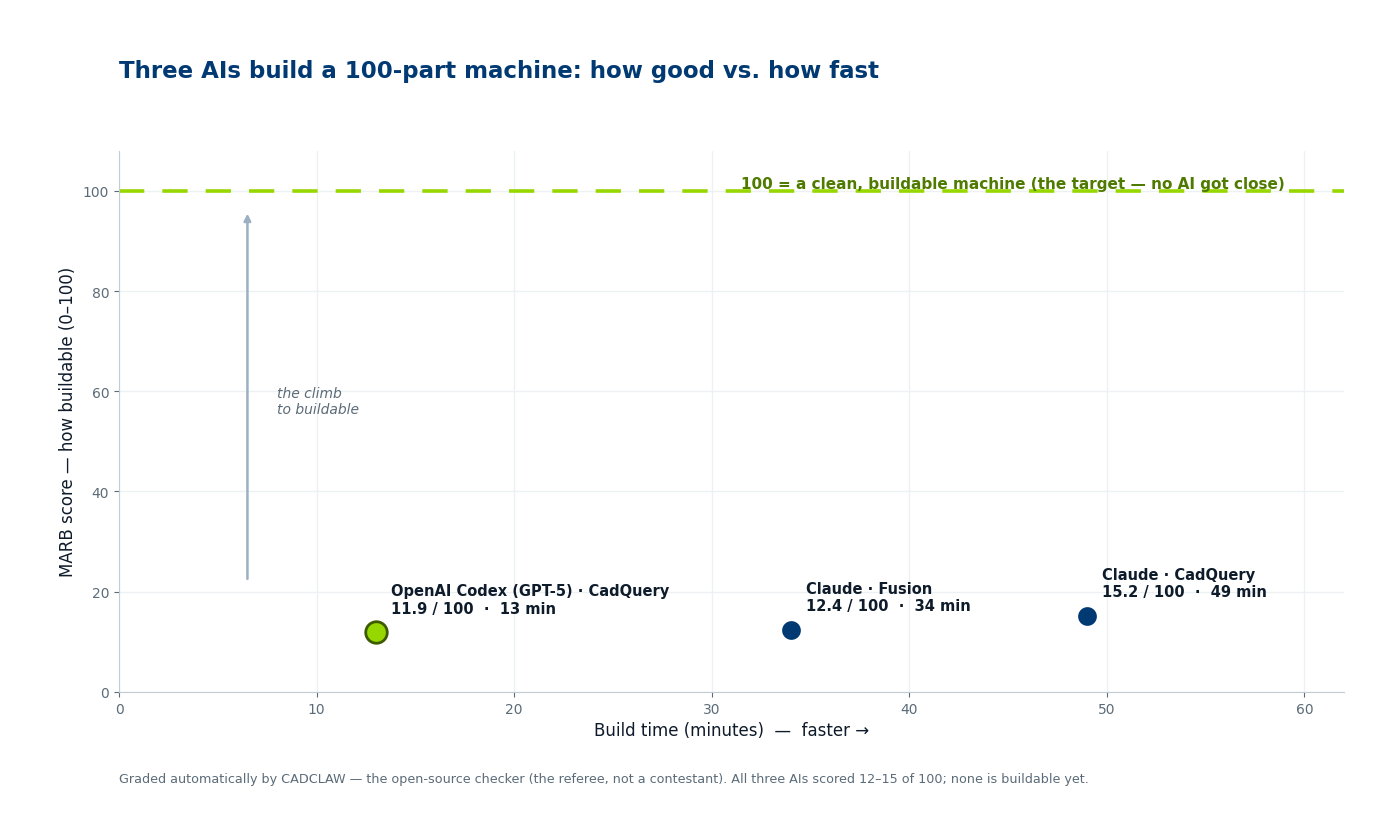
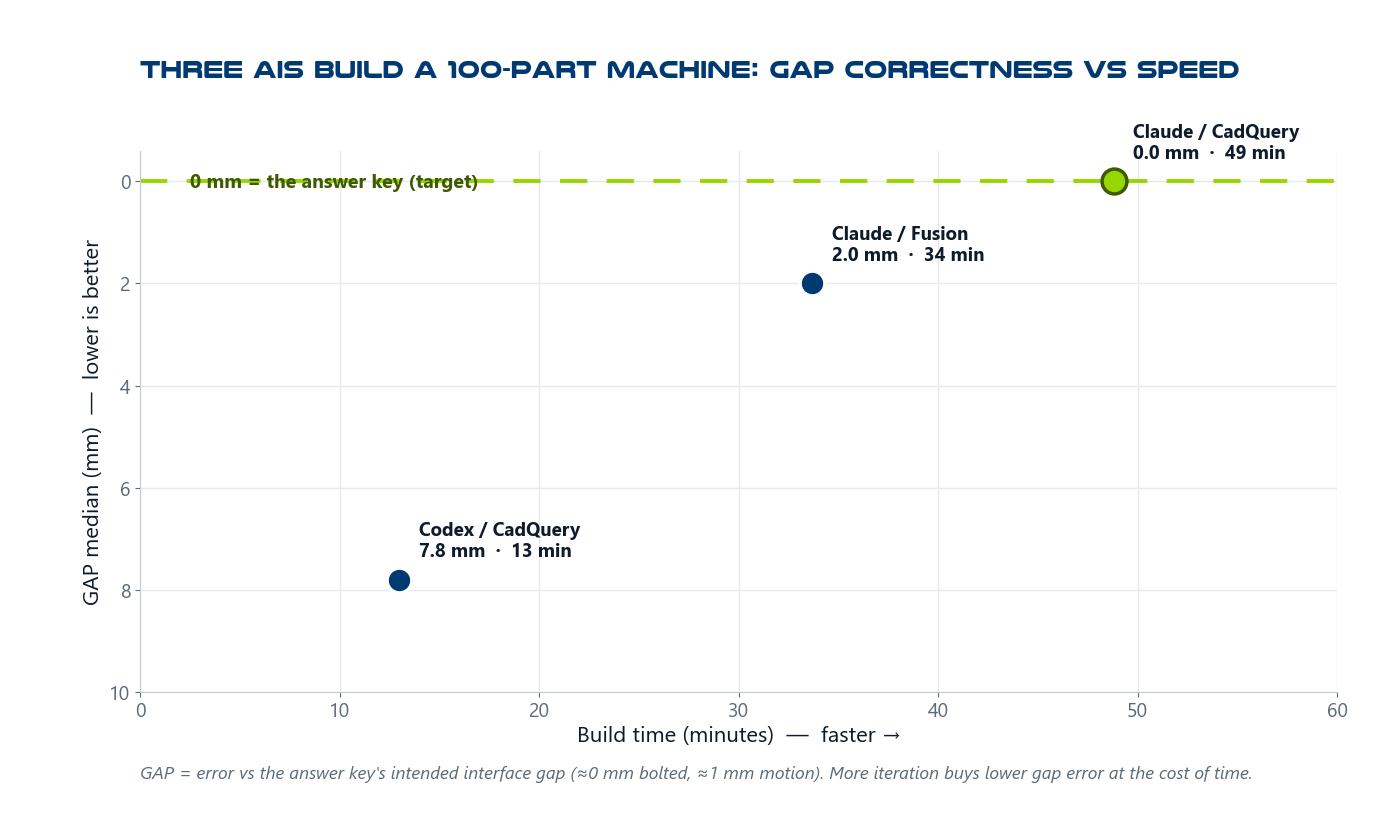
MARB v0.9: positional accuracy leaderboard + new scoreboard graphic
- /benchmark/ leaderboard now grades GAP median (functional interface gap
  vs answer key), ORIENT aligned (% rotation correct), POS rel median
  (frame-invariant position error) -- replacing the buildability-only
  score. CadQuery leads GAP (0.0mm); Codex leads ORIENT (69%) + POS.
- Scoreboard regenerated via brand_figs.py (Nulshock + Segoe UI, big
  legible type, minimal text); written to both marb_scoreboard.png
  (canonical) and arb_scoreboard.png (legacy compat for existing
  og:image refs). Scatter regenerated as GAP-vs-time.
- Caption + tools metadata updated for v0.9; links to MARB_SCORING.md.

diff --git a/docs/benchmark/index.html b/docs/benchmark/index.html
@@ -146,15 +146,15 @@
       <p class="caption">How good vs. how fast. All three sit near the floor (a clean build = 100); <strong>OpenAI Codex did it in 13 minutes</strong> — far faster, slightly lower score.</p>
     </div>
     <table class="restable leaderboard">
-      <thead><tr><th>#</th><th>Model · tool</th><th>MARB score</th><th>Parts</th><th>Interference</th><th>Time</th><th>Cost <span class="th-sub">est.</span></th></tr></thead>
+      <thead><tr><th>#</th><th>Model · tool</th><th>GAP median ↓</th><th>ORIENT aligned ↑</th><th>POS rel median ↓</th><th>Time</th><th>Cost <span class="th-sub">est.</span></th></tr></thead>
       <tbody>
-        <tr class="top"><td>1</td><td><strong>Claude Opus 4.7</strong> · CadQuery</td><td class="score"><strong>15.2</strong></td><td>100/100</td><td>35 clips · 248 cm³</td><td>48.8 min</td><td>~$68</td></tr>
-        <tr><td>2</td><td><strong>Claude Opus 4.7</strong> · Fusion</td><td class="score"><strong>12.4</strong></td><td>100/100</td><td>44 clips · 323 cm³</td><td>33.7 min</td><td>~$174</td></tr>
-        <tr><td>3</td><td><strong>GPT&#8209;5 Codex</strong> · CadQuery</td><td class="score"><strong>11.9</strong></td><td>100/100</td><td>50 clips · 288 cm³</td><td><strong>13.0 min</strong></td><td><em>not reported</em></td></tr>
-        <tr class="ref"><td>—</td><td>CADCLAW reference <em>(answer key)</em></td><td class="score"><strong>100</strong></td><td>100/100</td><td>✓ clean</td><td>resolver</td><td>—</td></tr>
+        <tr class="top"><td>1</td><td><strong>Claude Opus 4.7</strong> · CadQuery</td><td class="score"><strong>0.0 mm</strong></td><td>51%</td><td>49.9 mm</td><td>48.8 min</td><td>~$68</td></tr>
+        <tr><td>2</td><td><strong>Claude Opus 4.7</strong> · Fusion</td><td class="score"><strong>2.0 mm</strong></td><td>47%</td><td>47.7 mm</td><td>33.7 min</td><td>~$174</td></tr>
+        <tr><td>3</td><td><strong>GPT&#8209;5 Codex</strong> · CadQuery</td><td class="score"><strong>7.8 mm</strong></td><td style="color:#4e7a00;font-weight:700">69%</td><td style="color:#4e7a00;font-weight:700">47.2 mm</td><td><strong>13.0 min</strong></td><td><em>not reported</em></td></tr>
+        <tr class="ref"><td>—</td><td>CADCLAW reference <em>(answer key)</em></td><td class="score"><strong>0.0 mm</strong></td><td>100%</td><td>0.0 mm</td><td>resolver</td><td>—</td></tr>
       </tbody>
     </table>
-    <p class="caption" style="text-align:left;max-width:74ch;">MARB score = the L1 buildability sub-grade (0–100; a clean, fully-buildable assembly scores 100). <strong>Cost</strong> is estimated at Anthropic Opus list price (~$15 / $75 per million input / output tokens, $1.50 per million cache-read) applied to measured token usage; the Codex CLI did not report tokens (a one-shot run, so the lowest of the three). Effort — time, cost, attempts — is reported alongside the score, never folded into it. Results as of 2026&#8209;05&#8209;26 · CadQuery 2.7.0, Autodesk Fusion 2702.1.58, graded by CADCLAW 0.8.0.</p>
+    <p class="caption" style="text-align:left;max-width:74ch;"><strong>MARB v0.9.</strong> <strong>GAP median</strong> = error vs the answer key's intended interface gap (≈0 mm bolted, ≈1 mm motion clearance). <strong>ORIENT aligned</strong> = % of asymmetric parts in the correct rotation. <strong>POS rel median</strong> = position error relative to each part's neighbours (frame‑invariant). Tolerances are tight by design (≤5 mm = located, ≤5° = aligned); none buildable yet. Cost est. at Anthropic Opus list price (~$15 / $75 per M tokens, $1.50 cache‑read); Codex CLI didn't report tokens. Results 2026&#8209;05&#8209;26 · CadQuery 2.7.0, Autodesk Fusion 2702.1.58 · graded per the <a href="https://github.com/sunnyday-technologies/CADCLAW/blob/main/benchmarks/m3_ai_assembly/MARB_SCORING.md">MARB v0.9 scoring spec</a>.</p>
     <p class="lede">Every flagged clip is structural — beams overlapping at splice joints and post/frame junctions, and the centered 2040 inserts overlapping their beams. <strong>Both also placed the Z-posts in the wrong rotation</strong> versus the reference — an orientation error the current gates don't yet catch, and the next gate we're adding.</p>
     <div class="callout"><strong>Interference is the buildability gate.</strong> A self-intersecting frame can't be built, so it scales the L1 score down — a near-miss outranks a mess. Effort (time, tokens, attempts) is reported separately, never folded into the artifact score.</div>
     <div class="callout"><strong>Fairness note.</strong> CADCLAW and its placement resolver were first built around CadQuery, before the Fusion connection (MCP) existed — so the CadQuery runs may carry a home-field edge in tooling maturity. We flag it so the comparison stays honest; an orientation gate and more reference tasks will tighten it.</div>
